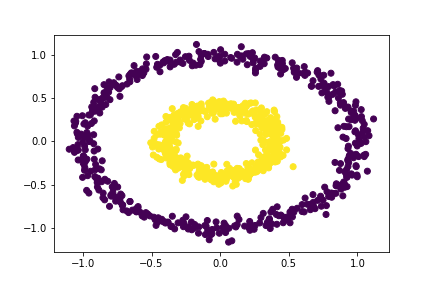
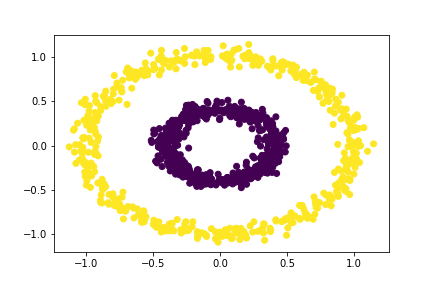
update blog 2
update images, add manual eigenvalue sorting, add got/gave help blocks

diff --git a/_posts/2021-04-30-Exploring-Spectral-Clustering.md b/_posts/2021-04-30-Exploring-Spectral-Clustering.md
@@ -9,11 +9,13 @@ In this post I will be guiding you through the process of creating a simple spec
 
 First, let's import the necessary libraries.
 
+
 ```python
 import numpy as np
 from sklearn import datasets
 from matplotlib import pyplot as plt
 ```
+
 
 To motivate spectral clustering, we must understand when we can use it, and when we do not need to. Here is an example of a set of points.
 
@@ -300,8 +302,27 @@ The optimization we did in part D was effective, however it was very slow. Inste
 
 ```python
 L = np.linalg.inv(D)@(D-A) # create the Laplacian matrix
-z_eig = np.linalg.eig(L)[1][:,1] # extract eigenvector corresponding to second smallest eigenvalue
+eig_vals, eig_vecs = np.linalg.eig(L) # compute eigenvalues and eigenvectors of Laplacian matrix
+idx = np.argsort(eig_vals) # find indexes eigenvalues sorted in ascending order
+eig_vals, eig_vecs = eig_vals[idx], eig_vecs[:,idx] # sort eigenvalues and eigenvectors by ascending order of eigenvalues
+z_eig = eig_vecs[:,1] # obtain eigenvector corresponding to second smallest eigenvalue
+```
 
+{::options parse_block_html="true" /}
+<div class="got-help">
+Initially, I was assuming that the eigenvalues were already sorted in ascending order. So I used indexing to obtain what I thought was the eigenvector corresponding the second smallest eigenvalue.
+
+```python
+z_eig = np.linalg.eig(L)[1][:,1]
+```
+
+Through a classmate's review, I learned that this is not guaranteed. They suggested I manually sort the eigenvalues to obtain the eigenvector corresponding to the second smallest eigenvalue. So above and in the `spectral_clustering` function in Part G, I have updated my code to manually sort the eigenvalues.
+
+</div>
+{::options parse_block_html="false" /}
+
+
+```python
 # color the points based on the sign of z_eig
 plt.scatter(X[:,0][z_eig  < 0], X[:,1][z_eig  < 0], c = 'purple')
 plt.scatter(X[:,0][z_eig  >= 0], X[:,1][z_eig  >= 0], c = 'yellow')
@@ -337,11 +358,20 @@ def spectral_clustering(X, epsilon):
     L = np.linalg.inv(D)@(D-A)
 
     # Compute eigenvector with second smallest eigenvalue of L
-    z_eig = np.linalg.eig(L)[1][:,1]
+    eig_vals, eig_vecs = np.linalg.eig(L)
+    idx = np.argsort(eig_vals)
+    eig_vals, eig_vecs = eig_vals[idx], eig_vecs[:,idx]
+    z_eig = eig_vecs[:,1]
 
     # Return labels based on eigenvector
     return 1 * (z_eig > 0)  
 ```
+
+{::options parse_block_html="true" /}
+<div class="gave-help">
+I gave a reminder to a classmate about how to find the eigenvalues and eigenvectors of the Laplacian matrix **L**. Initially, they were finding the spectral decomposition of (L+L.T)/2. Since **L** is a nonsingular square matrix, its eigenvalues and eigenvectors can be directly computed.
+</div>
+{::options parse_block_html="false" /}
 
 ## Part H: Experimenting with Crescents
 
